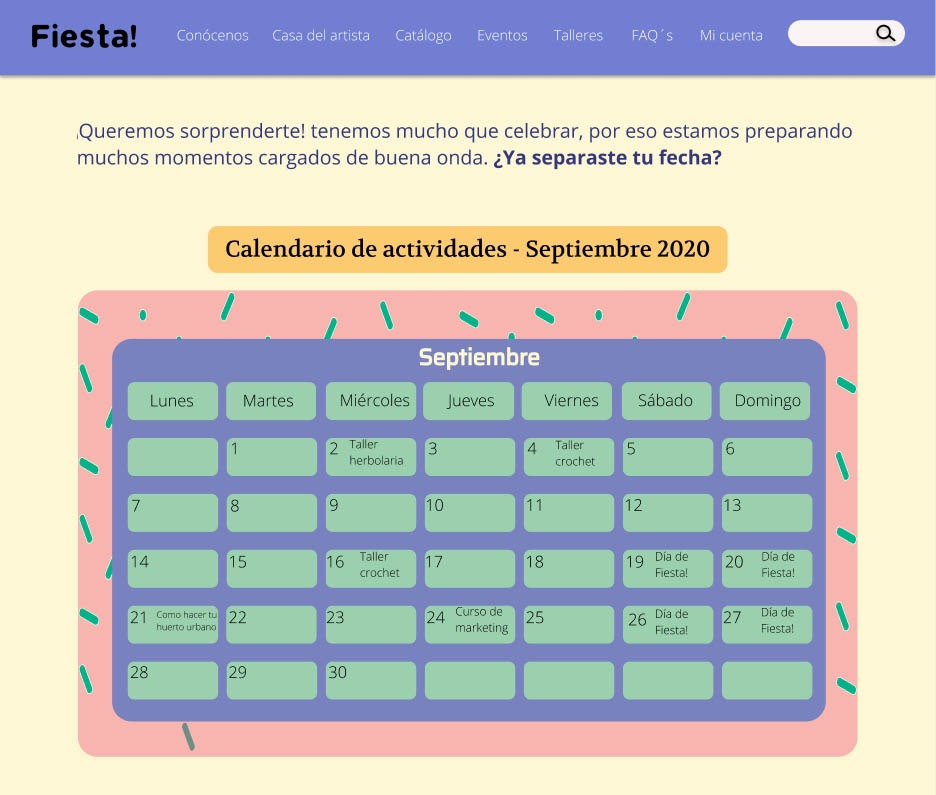
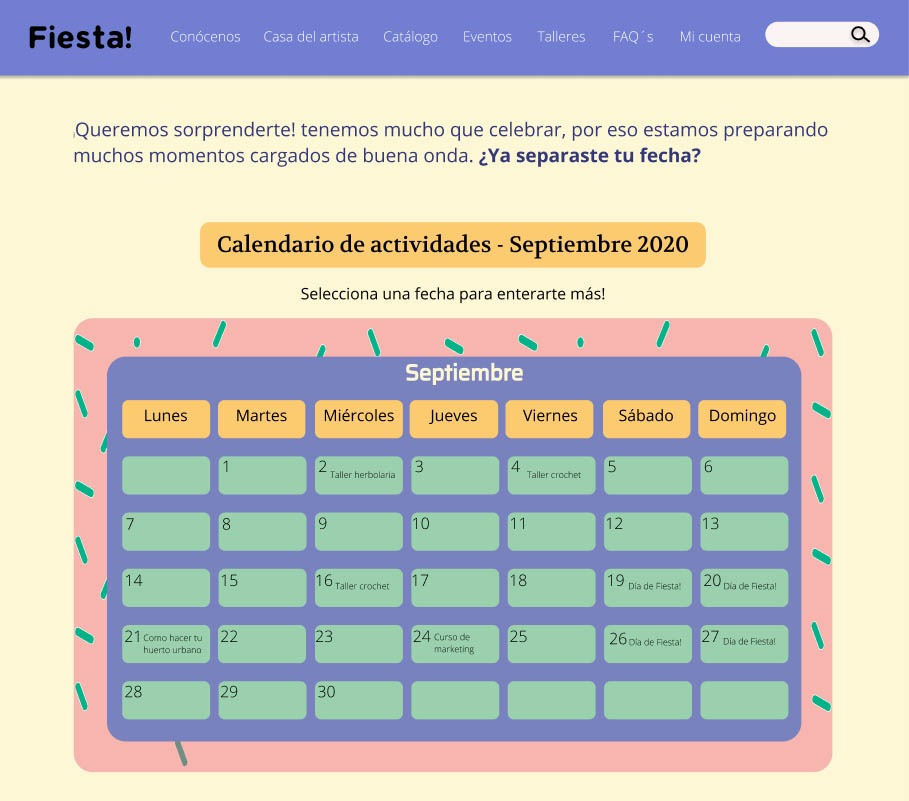
agregué datos de hallazgos a README

diff --git a/README.md b/README.md
@@ -148,11 +148,11 @@ Hola! Somos Fiesta y lo que más nos emociona es celebrar tu talento, el arte, l
 
 **Artesanos**
 
-<img src="https://github.com/AndyyAg/ux-consultancy/blob/master/img/userflow%20art.jpg" width="600">
+<img src="https://github.com/AndyyAg/ux-consultancy/blob/master/img/userflow%20art.jpg" width="400">
 
 **Visitantes**
 
-<img src="https://github.com/AndyyAg/ux-consultancy/blob/master/img/userflow%20us.jpg" width="600">
+<img src="https://github.com/AndyyAg/ux-consultancy/blob/master/img/userflow%20us.jpg" width="400">
 
 #### Wireframe
 
@@ -187,30 +187,30 @@ En nuestro banner a partir del feedback de nuestros tester, decidimos modificarl
 
 <img src="https://github.com/AndyyAg/ux-consultancy/blob/master/img/solucion_banner.png" width="700">
 
-En la parte de eventos modificamos el diseño visual de nuestro calendario y arreglamos el UX writing para que pudiese ser más entendible por los usuarios, adicional a que se busca invitarlos a formar parte de la comunidad mientras aprenden.
+En la parte de eventos modificamos el diseño visual de nuestro calendario y arreglamos el UX writing para que pudiese ser más entendible por los usuarios, adicional a que se busca invitarlos a formar parte de la comunidad mientras aprenden, en esta página se realizó un segundo testeo, en el cual nuevamente iteramos con el calendario para que pudiese ser más entendible y visualmente atractivo.
 
-<img src="https://github.com/AndyyAg/ux-consultancy/blob/master/img/solucion_calendario.jpeg">
+<img src="https://github.com/AndyyAg/ux-consultancy/blob/master/img/solucion_calendario.jpeg" width="500">
 
 En catálogo se decidió agregar la interacción también vía WhatsApp e Instagram, adicional a que se les permite interactuar al dar click con más detalles no solo de las piezas, también del proyecto.
-<img src="https://github.com/AndyyAg/ux-consultancy/blob/master/img/solucion_cat%C3%A1logo.jpeg">
+<img src="https://github.com/AndyyAg/ux-consultancy/blob/master/img/solucion_cat%C3%A1logo.jpeg" width="500">
 
 En FAQ's se agregó el botón "Volver al home" con la finalidad de que los usuarios puedan regresar a la página principal más facilmente. 
-<img src="https://github.com/AndyyAg/ux-consultancy/blob/master/img/solucion_faqs.jpeg">
+<img src="https://github.com/AndyyAg/ux-consultancy/blob/master/img/solucion_faqs.jpeg" width="500">
 
 Se arregló el detalle de registro en la parte inferior para darle más importancia visual.
-<img src="https://github.com/AndyyAg/ux-consultancy/blob/master/img/solucion_inicio_sesi%C3%B3n.jpeg">
+<img src="https://github.com/AndyyAg/ux-consultancy/blob/master/img/solucion_inicio_sesi%C3%B3n.jpeg" width="500">
 
 En los lives se agrega la interacción en tiempo real solo agregando un nombre y escribiendo el comentario.
-<img src="https://github.com/AndyyAg/ux-consultancy/blob/master/img/solucion_live.jpeg">
+<img src="https://github.com/AndyyAg/ux-consultancy/blob/master/img/solucion_live.jpeg" width="500">
 
-Se mejora la pasarela de pago, se le deja mensaje informativo sobre los días que tardará en llegar su pedido, se le indica precio de delivery, de forma visual pueden observarse las formas de pago.
-<img src="https://github.com/AndyyAg/ux-consultancy/blob/master/img/solucion_pagos.jpeg">
+Se mejora la pasarela de pago, se le deja mensaje informativo sobre los días que tardará en llegar su pedido, se le indica precio de delivery, de forma visual pueden observarse la forma de pago, anteriormente se había iterado con vaios métodos, sin embargo, por porte de un segundo testeo descubrimos que sería más sencillo limitar a un sólo método de forma inicial en lo que se genera mayor movimiento dentro de la página.
+<img src="https://github.com/AndyyAg/ux-consultancy/blob/master/img/solucion_pagos.jpeg" width="500">
 
 En el perfil del artista se le da un espacio en la parte izquierda para hablar de él y su proceso, también se agrega la historia del proyecto, se muestran las piezas y se agregan las redes sociales.
-<img src="https://github.com/AndyyAg/ux-consultancy/blob/master/img/solucion_perfil_art.jpeg">
+<img src="https://github.com/AndyyAg/ux-consultancy/blob/master/img/solucion_perfil_art.jpeg" width="500">
 
 En la parte de registro se indica de forma más específica que tipo de imagen se le solicita, se agrega mensaje amigable invitando a formar parte de Fiesta! y se mejora UX writing en las preguntas.
-<img src="https://github.com/AndyyAg/ux-consultancy/blob/master/img/soluci%C3%B3n_registro.jpeg">
+<img src="https://github.com/AndyyAg/ux-consultancy/blob/master/img/soluci%C3%B3n_registro.jpeg" width="500">
 
 En este link puedes visualizar nuestras entrevistas.
 [Click aquí](https://drive.google.com/drive/folders/1RWtEZMseHvILkKH_0AYCqvIHDEvYIJbG?usp=sharing)
